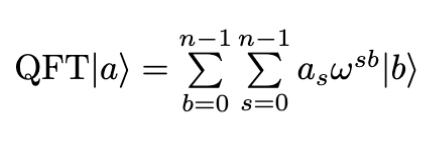
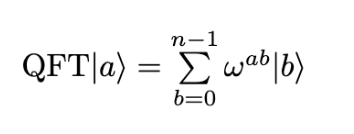
added more visuals

Changed region(s): [[0.0311, 0.209, 0.9322, 0.806]]

diff --git a/INTRODUCTION.md b/INTRODUCTION.md
@@ -4,7 +4,9 @@ Here, we will explain how quantum addition and multiplication work and provide q
 
 ## Storing Integers
 
-Similar to how classical computers store numbers, quantum computers—at least for the purpose of addition and multiplication—store integers in binary. Classical computers usually store integers using a fixed number of bits, typically either 32 or 64 bits. However, since qubits are a much more limited resource than bits, quantum computers store a reduced range of numbers, generally well below 32 qubits per integer. Although qubits are probabilistic by nature, the initial and final integer states for quantum arithmetic circuits are designed NOT to be in a superposition; assuming no quantum noise, only one measurement is necessary to get the result of one arithmetic operation.
+Similar to how classical computers store numbers, quantum computers—at least for the purpose of addition and multiplication—store integers in binary. Classical computers usually store integers using a fixed number of bits, typically either 32 or 64 bits. However, since qubits are a much more limited resource than bits, quantum computers store a reduced range of numbers, generally well below 32 qubits per integer.
+
+Although qubits are probabilistic by nature, the initial and final integer states for quantum arithmetic circuits are designed NOT to be in a superposition; assuming no quantum noise, only one measurement is necessary to get the result of a single arithmetic operation.
 
 ## Implementations of Addition and Multiplication
 
@@ -26,19 +28,20 @@ Formally, the QFT is defined as:
 
 First, we partition the complex plane into multiple phases, one unique phase for each quantum state (note that if there are "n" input qubits, there are "2^n" input states). We define:
 
-(insert equation)
+![](/images/QFT_phase_partition.png)
 
 Then, we break the input state "a" and the output state "b" into their individual qubits (in order to build a circuit with gates operating on/between qubits, we need to see how the QFT acts on each individual qubit):
 
-(insert equation)[Notice how we are summing between the 0th to (n-1)th qubits of each state. Each sum contains n terms, one term for each qubit.]
+![](/images/QFT_expansion.png)
+*Notice how we are summing between the 0th to (n-1)th qubits of each state. Each sum contains n terms, one term for each qubit.*
 
 Next, we can actually ignore certain terms in the summation that are integer multiples of 2π, because full rotations in the complex plane get you back where you started. In particular, we only need to include terms such that j+k-n<0, or equivalently j<n-k:
 
-(insert equation)
+![](/images/QFT_expansion_simplification.png)
 
 We now have an expansion for each qubit. If we look at the last qubit, we notice that the operation is a single Hadamard gate:
 
-(insert equation)
+![](/images/QFT_last_qubit.png)
 
 If you examine other terms, say the kth qubit, you find that you get a Hadamard transformation accompanied by n-k-1 controlled rotations between other qubits. Translating the Hadamard gates and controlled rotation gates to an actual circuit yields the entire QFT circuit:
 
@@ -48,7 +51,7 @@ If you examine other terms, say the kth qubit, you find that you get a Hadamard 
 
 If we try to add numbers in the QFT, we get:
 
-(insert equation)
+![](/images/QFT_addition.png)
 
 If we decompose "m" and "b" in the second phase into their individual qubits using the same double sum as before, we find that we get similar cancellations, leading to the same exact n-k-1 staircase of controlled rotations as before. As such, the addition circuit looks nearly identical to the QFT circuit, but with the Hadamard's removed:
 
